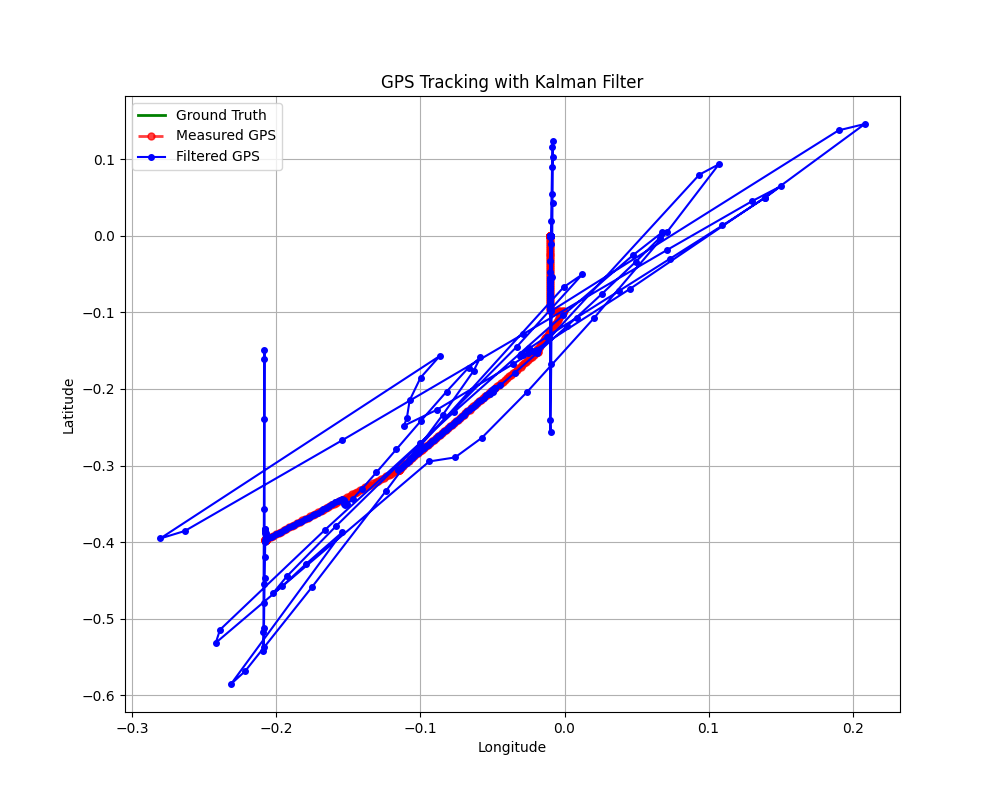
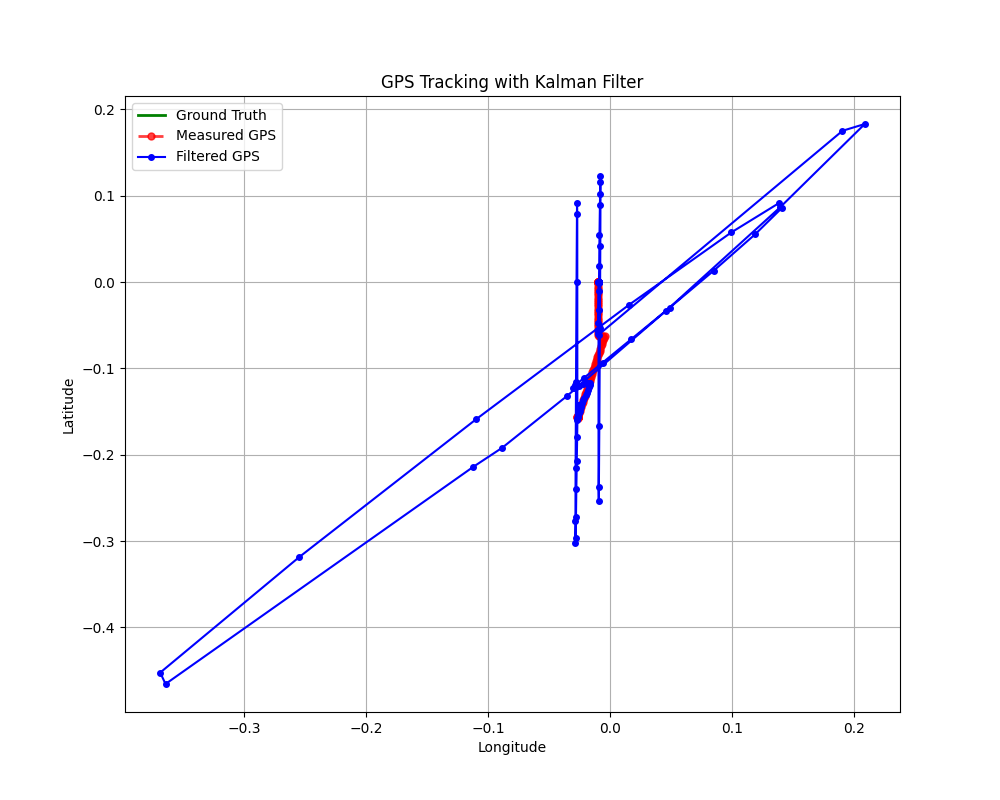
added controller for handling missing gps data using prediction state

diff --git a/controllers/missing_gps_data_kf_gps_acc_gy_rssi/missing_gps_data_kf_gps_acc_gy_rssi.py b/controllers/missing_gps_data_kf_gps_acc_gy_rssi/missing_gps_data_kf_gps_acc_gy_rssi.py
@@ -1,0 +1,189 @@
+import numpy as np
+import matplotlib.pyplot as plt
+from controller import Robot, Motor, Keyboard, GPS, Accelerometer, Gyro
+
+TIME_STEP = 64
+
+def is_gps_data_valid(gps_data):
+    """Utility function to check if GPS data is valid."""
+    return gps_data is not None and not np.isnan(gps_data).any()
+
+def handle_keyboard(kb, wheels):
+    """Handle keyboard inputs to control robot's wheels."""
+    key = kb.getKey()
+    leftSpeed = 0.0
+    rightSpeed = 0.0
+    if key == ord('W'):  # Forward
+        leftSpeed = 1.0
+        rightSpeed = 1.0
+    elif key == ord('S'):  # Backward
+        leftSpeed = -1.0
+        rightSpeed = -1.0
+    elif key == ord('D'):  # Turn right
+        leftSpeed = 1.0
+        rightSpeed = -1.0
+    elif key == ord('A'):  # Turn left
+        leftSpeed = -1.0
+        rightSpeed = 1.0
+
+    for wheel in wheels:
+        wheel.setVelocity(leftSpeed if wheel.getName() in ['wheel1', 'wheel3'] else rightSpeed)
+
+def read_sensors(gps, acc, gyro):
+    """Read sensor data from Webots devices."""
+    gps_data = gps.getValues()
+    acc_data = acc.getValues()
+    gyro_data = gyro.getValues()
+    imu_data = np.hstack([acc_data, gyro_data])
+    rssi_measurement = np.random.normal(-70, 4)  # Simulated RSSI value
+    return gps_data, imu_data, rssi_measurement
+
+def kalman_filter_update(x, P, gps_data, imu_data, rssi_data, H, R, F, B, Q):
+    """Kalman filter update step with mechanism to use estimated GPS data when actual data is missing."""
+    if not is_gps_data_valid(gps_data):
+        gps_data = x[:3]  # Use the predicted state as the 'measurement' for GPS data
+        R[0:3, 0:3] = np.eye(3) * 100  # Increase uncertainty for GPS data
+
+    u = imu_data
+    z = np.hstack([gps_data, rssi_data])
+
+    x_pred = F @ x + B @ u
+    P_pred = F @ P @ F.T + Q
+
+    y = z - H @ x_pred
+    S = H @ P_pred @ H.T + R
+    K = P_pred @ H.T @ np.linalg.inv(S)
+    x_updated = x_pred + K @ y
+    P_updated = (np.eye(len(x)) - K @ H) @ P_pred
+
+    return x_updated, P_updated
+
+def calculate_residuals(measured, filtered):
+    """Calculate residuals between measured and filtered GPS data."""
+    return np.array(measured) - np.array(filtered)
+
+def plot_residuals(residuals):
+    """Plot the residuals of GPS estimates."""
+    plt.figure(figsize=(10, 5))
+    plt.plot(residuals[:, 0], label='Longitude Residuals')
+    plt.plot(residuals[:, 1], label='Latitude Residuals')
+    plt.title('Residuals of Kalman Filter')
+    plt.xlabel('Time Step')
+    plt.ylabel('Residual')
+    plt.legend()
+    plt.grid(True)
+    plt.savefig('Residuals_Kalman_Filter.png')
+    plt.close()
+
+def plot_positions(ground_truth, measured, filtered):
+    """Plot ground truth, measured, and filtered GPS positions."""
+    plt.figure(figsize=(10, 8))
+    plt.plot(ground_truth[:, 0], ground_truth[:, 1], 'g-', label='Ground Truth')
+    plt.plot(measured[:, 0], measured[:, 1], 'r--', label='Measured GPS')
+    plt.plot(filtered[:, 0], filtered[:, 1], 'bo-', label='Filtered GPS')
+    plt.xlabel('Longitude')
+    plt.ylabel('Latitude')
+    plt.title('GPS Tracking with Kalman Filter')
+    plt.legend()
+    plt.grid(True)
+    plt.savefig('GPS_Tracking_with_Kalman_Filter.png')
+    plt.show()
+
+def main():
+    robot = Robot()
+    gps = robot.getDevice("global")
+    gps.enable(TIME_STEP)
+    acc = robot.getDevice("accelerometer")
+    acc.enable(TIME_STEP)
+    gyro = robot.getDevice("gyro")
+    gyro.enable(TIME_STEP)
+
+    wheels = []
+    wheel_names = ['wheel1', 'wheel2', 'wheel3', 'wheel4']
+    for name in wheel_names:
+        wheel = robot.getDevice(name)
+        wheel.setPosition(float('inf'))
+        wheel.setVelocity(0)
+        wheels.append(wheel)
+
+    kb = robot.getKeyboard()
+    kb.enable(TIME_STEP)
+
+    x = np.zeros(9)
+    P = np.eye(9) * 100
+    F = np.array([
+        [1, 0, 0, 1, 0, 0, 0, 0, 0],
+        [0, 1, 0, 0, 1, 0, 0, 0, 0],
+        [0, 0, 1, 0, 0, 1, 0, 0, 0],
+        [0, 0, 0, 1, 0, 0, 1, 0, 0],
+        [0, 0, 0, 0, 1, 0, 0, 1, 0],
+        [0, 0, 0, 0, 0, 1, 0, 0, 1],
+        [0, 0, 0, 0, 0, 0, 1, 0, 0],
+        [0, 0, 0, 0, 0, 0, 0, 1, 0],
+        [0, 0, 0, 0, 0, 0, 0, 0, 1]
+    ])
+    B = np.array([
+        [0, 0, 0, 0, 0, 0],
+        [0, 0, 0, 0, 0, 0],
+        [0, 0, 0, 0, 0, 0],
+        [1, 0, 0, 0, 0, 0],
+        [0, 1, 0, 0, 0, 0],
+        [0, 0, 1, 0, 0, 0],
+        [0, 0, 0, 1, 0, 0],
+        [0, 0, 0, 0, 1, 0],
+        [0, 0, 0, 0, 0, 1]
+    ])
+    H = np.array([
+        [1, 0, 0, 0, 0, 0, 0, 0, 0],
+        [0, 1, 0, 0, 0, 0, 0, 0, 0],
+        [0, 0, 1, 0, 0, 0, 0, 0, 0],
+        [0, 0, 0, 0, 0, 0, 0, 0, 1]
+    ])
+    Q = np.eye(9) * 0.1
+    R = np.array([
+        [9, 0, 0, 0],
+        [0, 9, 0, 0],
+        [0, 0, 9, 0],
+        [0, 0, 0, 16]
+    ])
+
+    ground_truth_positions = []
+    measured_positions = []
+    filtered_positions = []
+
+    while robot.step(TIME_STEP) != -1:
+        key = kb.getKey()
+        leftSpeed = 0.0
+        rightSpeed = 0.0
+        if key == 315:  # Forward
+            leftSpeed = 1.0
+            rightSpeed = 1.0
+        elif key == 317:  # Backward
+            leftSpeed = -1.0
+            rightSpeed = -1.0
+        elif key == 316:  # Turn right
+            leftSpeed = 1.0
+            rightSpeed = -1.0
+        elif key == 314:  # Turn left
+            leftSpeed = -1.0
+            rightSpeed = 1.0
+
+        for i in range(4):
+            wheels[i].setVelocity(leftSpeed if i % 2 == 0 else rightSpeed)
+
+        gps_data, imu_data, rssi_data = read_sensors(gps, acc, gyro)
+        x, P = kalman_filter_update(x, P, gps_data, imu_data, rssi_data, H, R, F, B, Q)
+        ground_truth_positions.append(gps_data)
+        measured_positions.append(gps_data + np.random.normal(0, 3, 3))  # Simulate GPS noise
+        filtered_positions.append(x[:3])
+
+        print("Ground Truth:", gps_data)
+        print("Measured GPS:", gps_data + np.random.normal(0, 3, 3))
+        print("Filtered GPS:", x[:3])
+
+    residuals = calculate_residuals(measured_positions, filtered_positions)
+    plot_residuals(residuals)
+    plot_positions(np.array(ground_truth_positions), np.array(measured_positions), np.array(filtered_positions))
+
+if __name__ == "__main__":
+    main()
